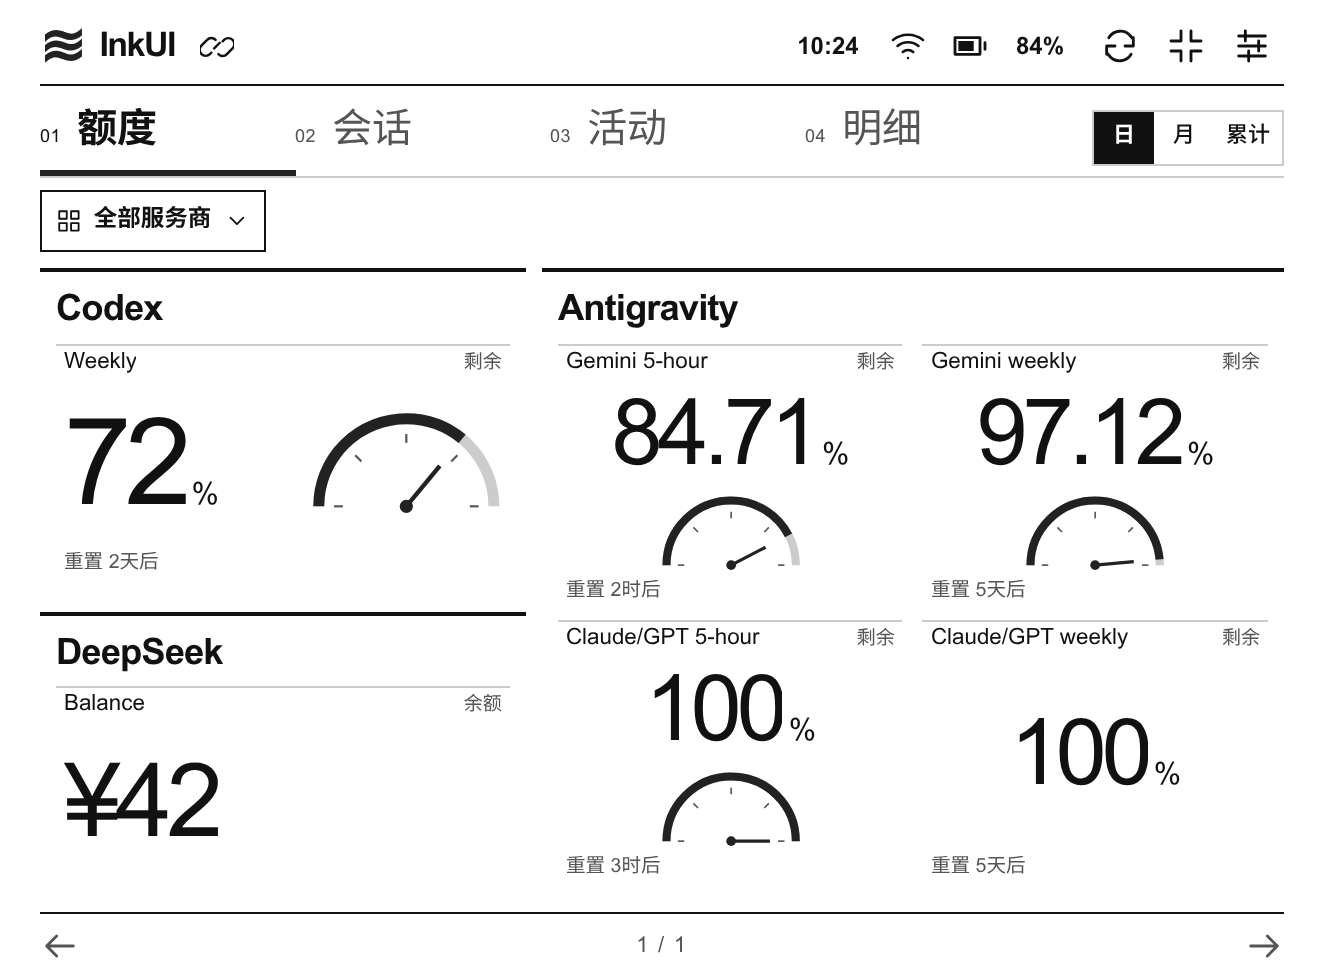
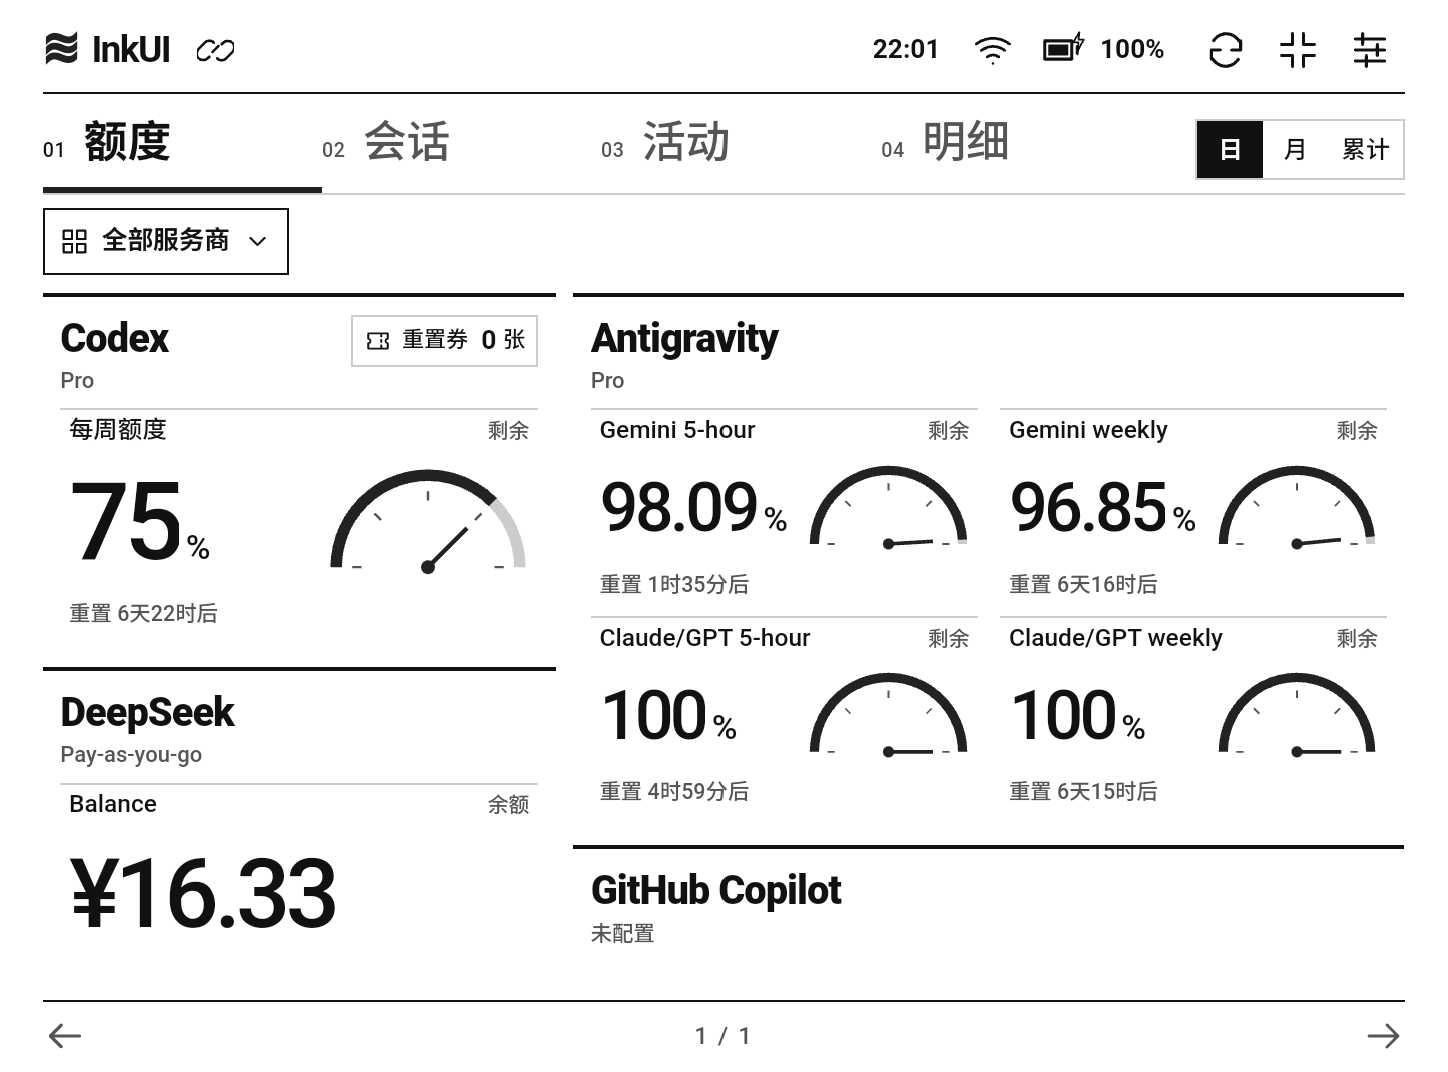
docs: use Poke3 device screenshot for quota preview

diff --git a/README.md b/README.md
@@ -8,11 +8,11 @@
 
 ## 界面预览
 
-以下为按 Poke3 横屏比例渲染的界面截图，使用合成演示数据，不是真机实拍，也不含真实账号数据。
+额度页为 Poke3 真机截图；其余页面按 Poke3 横屏比例渲染，使用合成演示数据。
 
 | 额度 | 会话 |
 | --- | --- |
-| ![额度页：服务商账号、额度窗口与余额](docs/screenshots/quotas.png) | ![会话页：会话名称、模型与用量](docs/screenshots/sessions.png) |
+| ![Poke3 真机额度页：服务商账号、额度窗口与余额](docs/screenshots/quotas.png) | ![会话页：会话名称、模型与用量](docs/screenshots/sessions.png) |
 | **活动** | **明细** |
 | ![活动页：平滑实线用量趋势](docs/screenshots/activity.png) | ![明细页：总量、费用与分项](docs/screenshots/details.png) |
 
